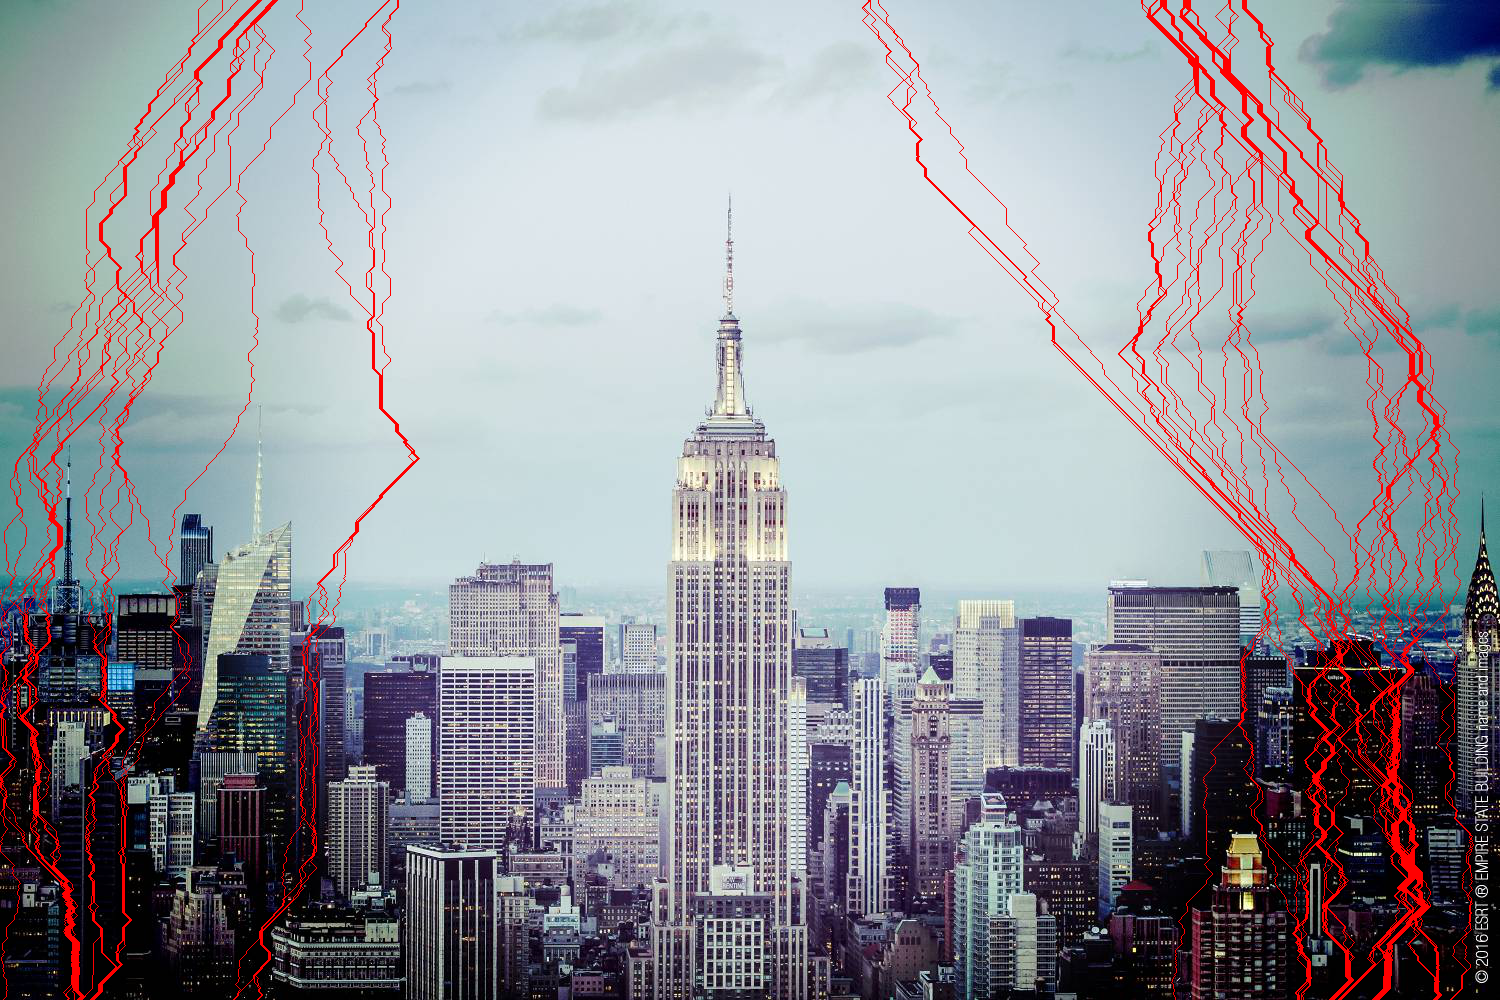
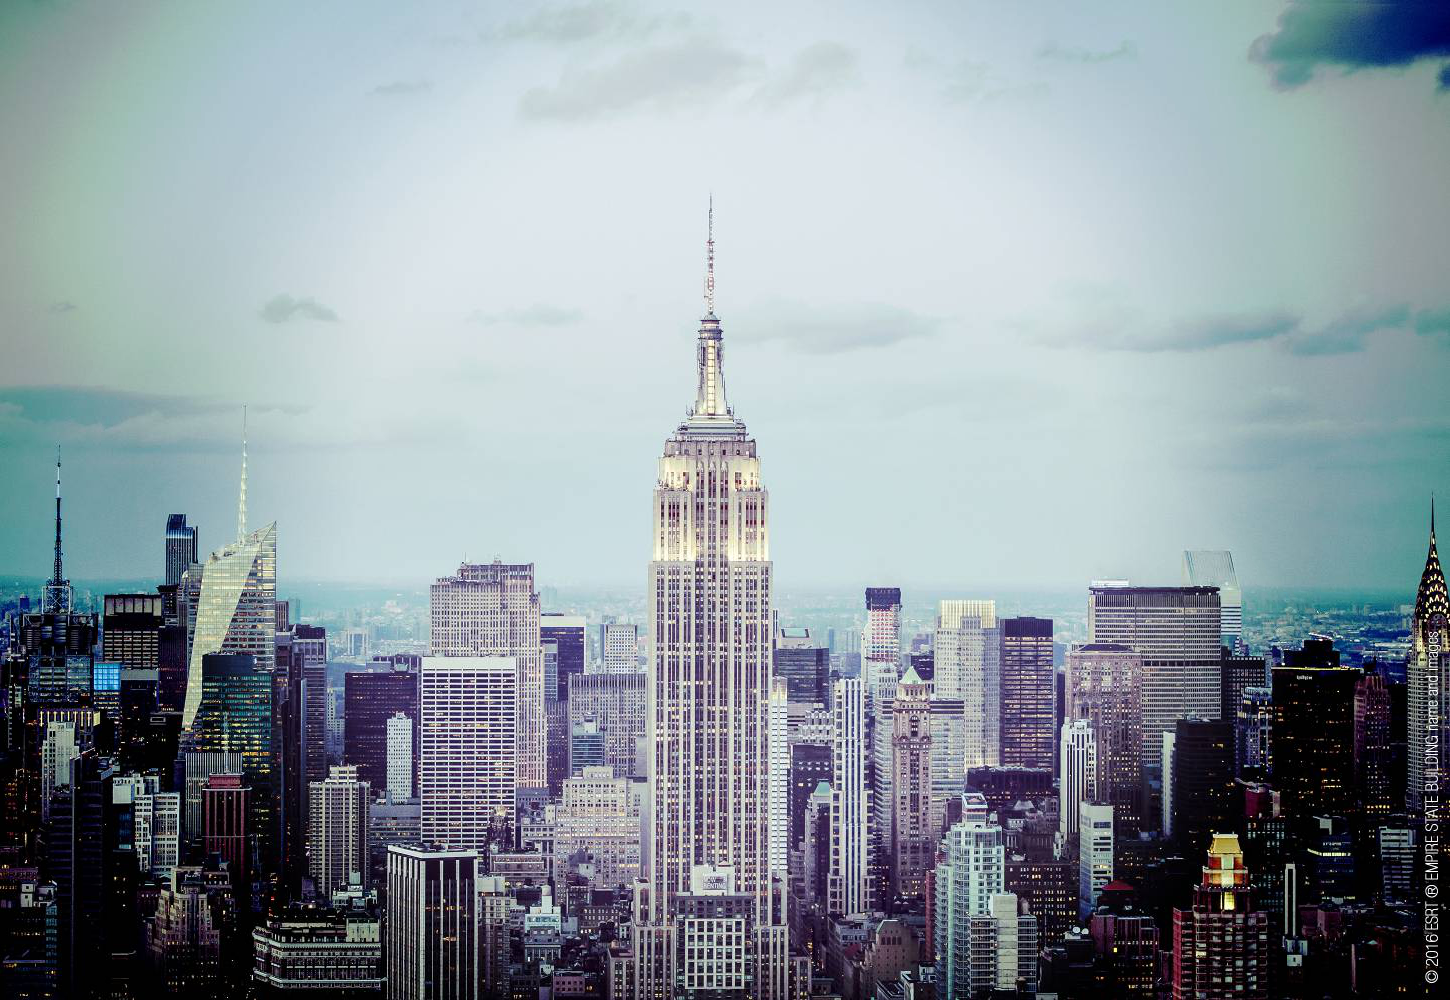
mul_delete

diff --git a/cair.py b/cair.py
@@ -403,11 +403,27 @@ def add_horizontal_seam(seam,im,ori_img):
 
 def carvColor(color_Img, grayImg, wp, hp):
     if wp >= 0:
-        for i in range(0,wp):
+        magnitude = computeEnergy(grayImg)
+        seam = find_multi_vertical_seams(uint32(magnitude),wp)
+
+        row,col = grayImg.shape
+        seam_index = []
+        for i in range(len(seam)):
+            index = (seam[i][0])*col + seam[i][1]
+            seam_index.append(index)
+        new_im = np.delete(grayImg,seam_index)
+        new_ori_img = np.zeros((row,col-wp,3))
+        new_ori_img[:,:,0] = np.delete(color_Img[:,:,0],seam_index).reshape(row,col-wp)
+        new_ori_img[:,:,1] = np.delete(color_Img[:,:,1],seam_index).reshape(row,col-wp)
+        new_ori_img[:,:,2] = np.delete(color_Img[:,:,2],seam_index).reshape(row,col-wp)
+        grayImg = new_im.reshape(row,col-wp)
+        color_Img = new_ori_img
+
+        '''for i in range(0,wp):
          #print i
             magnitude = computeEnergy(grayImg)
             best_seam = find_vertical_seam(uint32(magnitude))
-            grayImg,color_Img = delete_verticle_seam(best_seam,grayImg,color_Img)
+            grayImg,color_Img = delete_verticle_seam(best_seam,grayImg,color_Img)'''
     else:
             magnitude = computeEnergy(grayImg)
             best_seams = find_multi_vertical_seams(uint32(magnitude),-wp)
@@ -603,7 +619,7 @@ if __name__ == '__main__':
     grayImg = oriImg.convert('L')
     im = array(grayImg)
 
-    tmp,gimg = carvColor(color_Img, im, -50,0)
+    tmp,gimg = carvColor(color_Img, im, 50,0)
     #tmp = carvGray(im,200,0)
     tmp = Image.fromarray(tmp)
     tmp.save('tmp.png')
